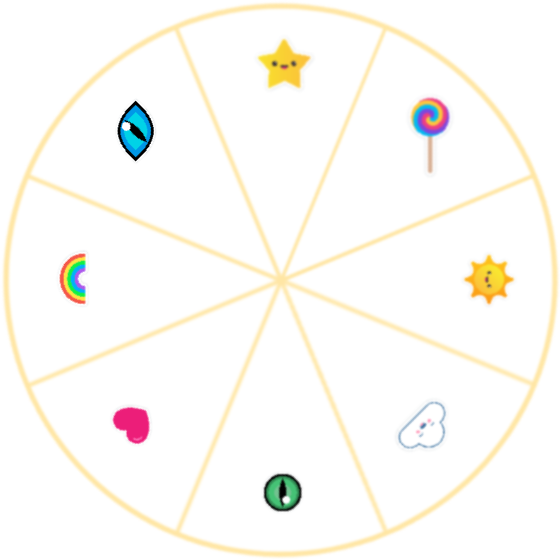
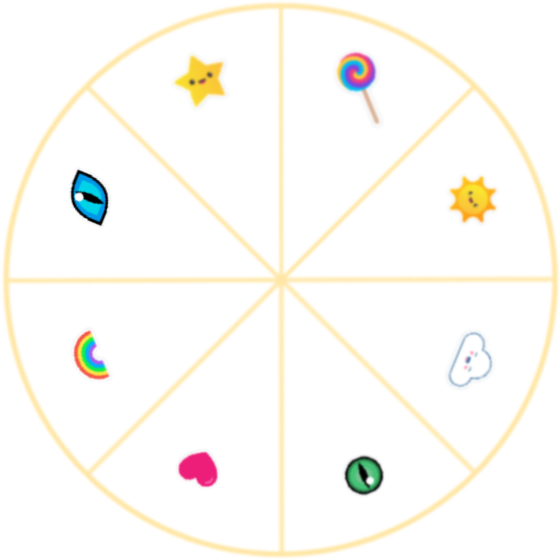
轉盤:加上隨機角度

diff --git a/luckywheel.html b/luckywheel.html
@@ -45,8 +45,9 @@
       right: 120px;
     }
     #whell{
-      transition: 7s cubic-bezier(.3,-0.06,0,1.01);
-      /* cubic-bezier(0.3,-0.06, 0, 1.11) 尾段回彈較多 */
+      transition: 8s cubic-bezier(0.12,-0.14, 0, 1.05); /* 起始較快 */
+      /* (.3,-0.06,0,1.03) 尾段回彈較少 */
+      /* (0.3,-0.06, 0, 1.11) 尾段回彈較多 */
       position:absolute;
       top: 0;
       left: 0;
@@ -95,34 +96,38 @@
   <script>
     let rotate = 0;
     function clickbtn(num) {
+      // 連續轉時，要多轉回正
       if(rotate!=0) {
         rotate += 360 - rotate%360;
       }
+      // 隨機數。若每格45度，Math.random()*XX  + YY ，XX+2*YY 要等於45
+      let randomNum = Math.floor( Math.random()*35 ) + 5;
+      // 基本轉5圈
       rotate += 360*5;
       switch (num) {
         case 1:
-          rotate+=0; 
+          rotate = rotate + randomNum + 0; 
           break;
         case 2:
-          rotate+=45; 
+          rotate = rotate + randomNum + 45; 
           break;
         case 3:
-          rotate+=90; 
+          rotate = rotate + randomNum + 90; 
           break;
         case 4:
-          rotate+=135; 
+          rotate = rotate + randomNum + 135; 
           break;
         case 5:
-          rotate+=180; 
+          rotate = rotate + randomNum + 180; 
           break;
         case 6:
-          rotate+=225; 
+          rotate = rotate + randomNum + 225; 
           break;
         case 7:
-          rotate+=270; 
+          rotate = rotate + randomNum + 270; 
           break;
         case 8:
-          rotate+=315; 
+          rotate = rotate + randomNum + 315; 
           break;
         case 0:
           rotate=0; 
